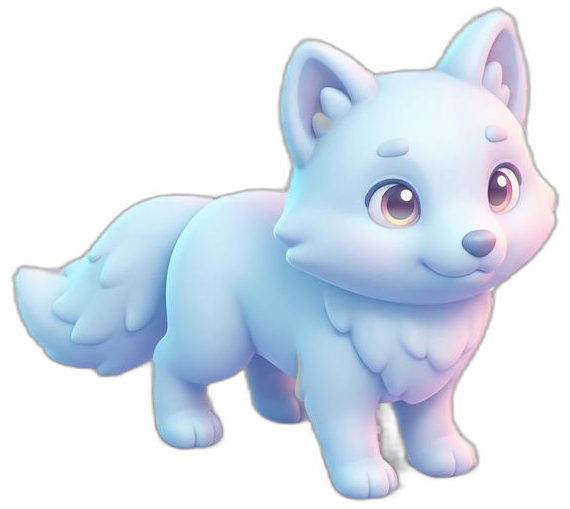
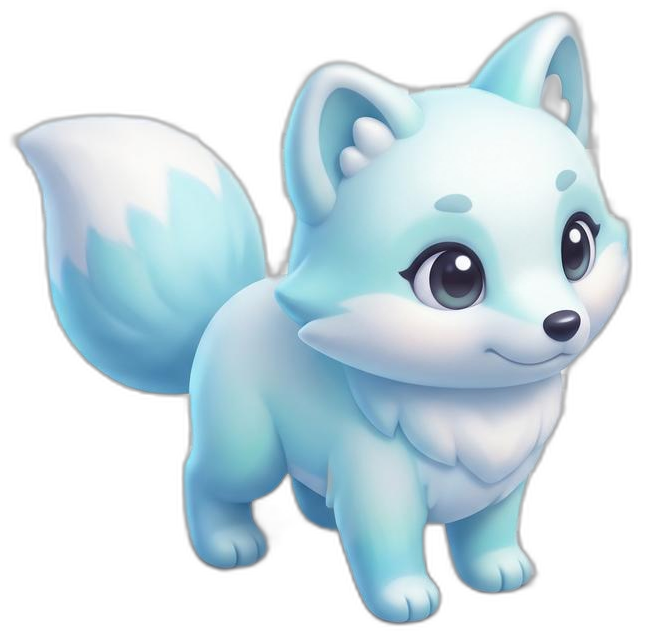
Densify Frosted Valley: 3 new animals, 6th zone, neglected landmarks
Uses every source image in Game_Assets_frozen_world_Compressed/ (58
files, 0 unused): processes 28 previously-unused decorative assets
(extra cottage/pine/crystal/flower variety, an ice gazebo, a second
bridge) and scatters them through the existing five zones so each
reads as visually rich rather than sparse.

Adds a sixth zone, Frozen Shore, for the penguin, plus deer (grove)
and polar bear (crystal area) — all three now placed, idle, and
visible. Adds procedural frost-crack lines and paw-print trails
leading to each animal (Graphics-drawn, no new art).

Wires in the first 10 of 11 "neglected landmark" pairs the user
generated and handed over: each zone's animal is tied to one damaged
object (frozen well, wilted carrots, dark lantern, blank signpost,
empty nest, dull crystal, dark ice cave, frozen fishing hole,
collapsed igloo) shown in-world now. Restored counterparts are
processed and sitting in public/assets/frosted/ (fv_item_*_restored)
ready for the reveal mechanic once the per-animal puzzle/unlock
system is built — not wired yet, since that system doesn't exist.

Reprocesses the fox from the source image that was actually kept
(dusjv8) after the original one was removed from the asset folder.

Verified with tsc/vitest(88)/vite build and a full Playwright pass
across all six zones confirming no overlap after the new shore zone
needed to move further from the now-denser village.

diff --git a/src/scenes/FrostedValleyScene.ts b/src/scenes/FrostedValleyScene.ts
@@ -21,51 +21,112 @@ import { progression } from "../game/services";
  * and everything else is sized relative to that, per the hierarchy
  * animal < decor < small tree < cottage < large tree < major feature.
  *
- * COMPOSITION: five zones spaced ~1600-2000 world-units apart along a single
- * path (see ZONES/PATH/RIVER), each with its own generous clearing — not one
- * overlapping pile. The fountain restoration is a tap-triggered stand-in for
- * the eventual puzzle hookup (see `triggerFountainRestore`).
+ * COMPOSITION: six zones spaced well apart along a path (see ZONES/PATH/
+ * RIVER), each with its own generous clearing — not one overlapping pile.
+ *
+ * NEGLECT/RESTORE: every zone's animal is tied to one "neglected" landmark —
+ * shown in its damaged state until the animal's own puzzle is solved. The
+ * fountain (grove) already has a full damaged→restored crossfade sequence
+ * (see `triggerFountainRestore`); the other landmarks currently only render
+ * their damaged sprite — restored counterparts are processed and sitting in
+ * public/assets/frosted/ (fv_item_*_restored) ready for the reveal mechanic
+ * once the per-animal puzzle/unlock system is built.
  */
 
-// native pixel dimensions of each processed asset (see public/assets/frosted/)
+// native pixel heights of every processed asset (see public/assets/frosted/)
 const NATIVE_H: Record<string, number> = {
   fv_bridge: 545,
+  fv_bridge_b: 545,
   fv_cottage_a: 719,
   fv_cottage_b: 582,
+  fv_cottage_c: 582,
   fv_pine: 927,
+  fv_pine_b: 633,
+  fv_pine_c: 866,
+  fv_pine_d: 795,
   fv_magic_treehouse: 822,
+  fv_magic_tree_restored: 810,
+  fv_blossom_tree: 556,
   fv_fence: 542,
   fv_barrel_flowers: 731,
+  fv_barrel_b: 731,
   fv_birdhouse_post: 785,
   fv_ice_block: 647,
   fv_icicles: 536,
   fv_waterfall: 569,
+  fv_waterfall_b: 569,
   fv_riverbank: 656,
   fv_crystal_a: 578,
   fv_crystal_b: 866,
+  fv_crystal_c: 578,
+  fv_crystal_d: 547,
+  fv_crystal_e: 618,
+  fv_crystal_flowers: 616,
+  fv_flower_crystal_bouquet: 503,
   fv_flower_bush: 543,
+  fv_flower_bush_b: 637,
+  fv_flower_pot: 789,
+  fv_flower_arch: 543,
+  fv_flower_cluster_a: 405,
+  fv_flower_cluster_b: 501,
+  fv_flower_cluster_c: 524,
+  fv_hedge: 590,
+  fv_signpost: 805,
+  fv_lamppost: 755,
+  fv_wheelbarrow: 569,
+  fv_bench: 576,
+  fv_ice_gazebo: 631,
+  fv_snowrock_a: 495,
+  fv_snowrock_b: 582,
+  fv_pond_frozen: 612,
+  fv_pond_restored: 513,
   fv_rabbit: 529,
-  fv_fox: 509,
+  fv_fox: 635,
   fv_squirrel: 555,
+  fv_deer: 516,
+  fv_polarbear: 620,
+  fv_penguin: 562,
   fv_berry_branch: 873,
   fv_fountain_damaged: 615,
   fv_fountain_restored: 821,
   fv_dead_tree: 652,
+  fv_item_well_damaged: 1305,
+  fv_item_well_restored: 1147,
+  fv_item_carrots_damaged: 1147,
+  fv_item_carrots_restored: 1374,
+  fv_item_signpost_damaged: 1263,
+  fv_item_signpost_restored: 849,
+  fv_item_lantern_damaged: 1464,
+  fv_item_lantern_restored: 1142,
+  fv_item_pool_damaged: 1056,
+  fv_item_pool_restored: 1344,
+  fv_item_nest_damaged: 1004,
+  fv_item_nest_restored: 1313,
+  fv_item_moonpetal_restored: 844,
+  fv_item_crystal_damaged: 1003,
+  fv_item_crystal_restored: 1056,
+  fv_item_icecave_damaged: 1468,
+  fv_item_icecave_restored: 1372,
+  fv_item_fishhole_damaged: 1051,
+  fv_item_fishhole_restored: 976,
+  fv_item_igloo_damaged: 1065,
+  fv_item_igloo_restored: 1330,
 };
 
 const FV_KEYS = [...Object.keys(NATIVE_H), "fv_sparkle_trail"];
 
 const WORLD_W = 6000;
-const WORLD_H = 4800;
+const WORLD_H = 5500;
 const HORIZON = 350;
 
-/** Five distinct clearings, spaced ~1600-2000 world-units apart — the world's real structure. */
+/** Six distinct clearings, spaced well apart — the world's real structure. */
 const ZONES = {
   village: { x: 900, y: 4300 },
   bridge: { x: 2150, y: 3500 },
   grove: { x: 2950, y: 2600 },
   waterfall: { x: 4150, y: 1500 },
   crystals: { x: 4950, y: 850 },
+  shore: { x: 2750, y: 5250 },
 };
 
 const START_FOCUS = { x: ZONES.village.x, y: ZONES.village.y - 90 };
@@ -113,12 +174,14 @@ export class FrostedValleyScene extends Phaser.Scene {
     this.buildGround();
     this.buildPath();
     this.buildRiver();
+    this.buildAtmosphere();
     this.buildForestFringe();
     this.buildVillageZone();
     this.buildBridgeZone();
     this.buildRestorationGrove();
     this.buildWaterfallZone();
     this.buildCrystalZone();
+    this.buildFrozenShore();
     this.buildAnimals();
     this.buildForeground();
     this.buildSnowfall();
@@ -298,6 +361,11 @@ export class FrostedValleyScene extends Phaser.Scene {
     path.fillStyle(0xfdfaf3, 0.92);
     const pts = this.chain([ZONES.village, ZONES.bridge, ZONES.grove, ZONES.waterfall, ZONES.crystals], 9);
     for (const p of pts) path.fillEllipse(p.x, p.y, 150, 78);
+
+    const spur = this.add.graphics().setDepth(-150);
+    spur.fillStyle(0xfdfaf3, 0.9);
+    const spurPts = this.chain([ZONES.village, ZONES.shore], 7);
+    for (const p of spurPts) spur.fillEllipse(p.x, p.y, 130, 68);
   }
 
   /** Waterfall -> pool -> bridge crossing -> continued water, offset from the grove clearing. */
@@ -308,12 +376,87 @@ export class FrostedValleyScene extends Phaser.Scene {
     const mid = { x: ZONES.grove.x + 620, y: ZONES.grove.y - 120 };
     const cross = { x: ZONES.bridge.x + 40, y: ZONES.bridge.y - 20 };
     const tail = { x: ZONES.bridge.x - 340, y: ZONES.bridge.y + 560 };
-    const pts = this.chain([src, mid, cross, tail], 7);
+    const mouth = { x: ZONES.shore.x + 260, y: ZONES.shore.y - 180 };
+    const pts = this.chain([src, mid, cross, tail, mouth], 7);
     for (const p of pts) river.fillEllipse(p.x, p.y, 230, 140);
 
     const shimmer = this.add.graphics().setDepth(-138);
     shimmer.fillStyle(0xcdeef7, 0.5);
     for (const p of pts) shimmer.fillEllipse(p.x, p.y, 80, 44);
+  }
+
+  /**
+   * Atmospheric ground detail: frost cracks radiating across the open snow,
+   * and small paw-print trails leading toward each zone's hidden animal —
+   * cheap procedural Graphics, no new art needed.
+   */
+  private buildAtmosphere(): void {
+    const cracks = this.add.graphics().setDepth(-145);
+    cracks.lineStyle(4, 0x9fc2dc, 0.55);
+    const crackOrigins = [
+      { x: 1550, y: 3950 },
+      { x: 2600, y: 3050 },
+      { x: 3600, y: 2000 },
+      { x: 4550, y: 1150 },
+      { x: 1450, y: 4650 },
+    ];
+    for (const o of crackOrigins) this.drawCrack(cracks, o.x, o.y, 5, 110);
+
+    if (!this.textures.exists("fv_pawprint")) {
+      const g = this.make.graphics({}, false);
+      g.fillStyle(0x9fc2dc, 1);
+      g.fillEllipse(6, 10, 7, 9);
+      g.fillEllipse(2, 2, 3, 4);
+      g.fillEllipse(7, 0, 3, 4);
+      g.fillEllipse(11, 2, 3, 4);
+      g.generateTexture("fv_pawprint", 16, 16);
+      g.destroy();
+    }
+    const trails: Array<{ from: { x: number; y: number }; to: { x: number; y: number } }> = [
+      { from: { x: ZONES.village.x - 260, y: ZONES.village.y - 60 }, to: { x: ZONES.village.x + 220, y: ZONES.village.y + 170 } },
+      { from: { x: ZONES.bridge.x - 420, y: ZONES.bridge.y + 60 }, to: { x: ZONES.bridge.x - 100, y: ZONES.bridge.y + 170 } },
+      { from: { x: ZONES.waterfall.x - 700, y: ZONES.waterfall.y + 120 }, to: { x: ZONES.waterfall.x - 340, y: ZONES.waterfall.y + 270 } },
+      { from: { x: ZONES.grove.x - 420, y: ZONES.grove.y + 340 }, to: { x: ZONES.grove.x - 210, y: ZONES.grove.y + 270 } },
+      { from: { x: ZONES.crystals.x - 620, y: ZONES.crystals.y + 340 }, to: { x: ZONES.crystals.x - 360, y: ZONES.crystals.y + 240 } },
+      { from: { x: ZONES.shore.x - 200, y: ZONES.shore.y + 260 }, to: { x: ZONES.shore.x, y: ZONES.shore.y + 190 } },
+    ];
+    for (const t of trails) this.drawPawTrail(t.from, t.to);
+  }
+
+  /** A jagged branching frost crack, drawn as short connected segments. */
+  private drawCrack(g: Phaser.GameObjects.Graphics, x: number, y: number, branches: number, len: number): void {
+    for (let b = 0; b < branches; b++) {
+      const angle = (Math.PI * 2 * b) / branches + Phaser.Math.FloatBetween(-0.3, 0.3);
+      let cx = x;
+      let cy = y;
+      let a = angle;
+      const segs = 3 + Math.floor(Math.random() * 3);
+      for (let s = 0; s < segs; s++) {
+        a += Phaser.Math.FloatBetween(-0.5, 0.5);
+        const nx = cx + Math.cos(a) * len;
+        const ny = cy + Math.sin(a) * len * 0.6;
+        g.lineBetween(cx, cy, nx, ny);
+        cx = nx;
+        cy = ny;
+      }
+    }
+  }
+
+  /** A short trail of alternating paw prints leading toward a hidden animal. */
+  private drawPawTrail(from: { x: number; y: number }, to: { x: number; y: number }): void {
+    const steps = 6;
+    for (let i = 0; i < steps; i++) {
+      const t = i / (steps - 1);
+      const x = Phaser.Math.Linear(from.x, to.x, t) + (i % 2 === 0 ? -14 : 14);
+      const y = Phaser.Math.Linear(from.y, to.y, t);
+      const angle = Phaser.Math.Angle.Between(from.x, from.y, to.x, to.y);
+      this.add
+        .image(x, y, "fv_pawprint")
+        .setRotation(angle + Math.PI / 2)
+        .setScale(1.4)
+        .setAlpha(0.65)
+        .setDepth(-144);
+    }
   }
 
   /** Linear-interpolated waypoint chain through a list of anchor points, `perLeg` points per leg. */
@@ -351,11 +494,12 @@ export class FrostedValleyScene extends Phaser.Scene {
     return img;
   }
 
-  /** Distant hazy treeline along the world's back edge, for depth. */
+  /** Distant hazy treeline along the world's back edge, for depth — mixed pine variants for texture. */
   private buildForestFringe(): void {
+    const variants = ["fv_pine", "fv_pine_b", "fv_pine_c", "fv_pine_d"];
     for (let i = 0; i < 22; i++) {
       const x = 80 + i * 280 + (i % 2) * 70;
-      this.propH("fv_pine", x, HORIZON + 60 + (i % 3) * 20, 340 + (i % 2) * 60, {
+      this.propH(variants[i % variants.length], x, HORIZON + 60 + (i % 3) * 20, 340 + (i % 2) * 60, {
         depth: -160,
         tint: 0xb9cfe8,
         alpha: 0.85,
@@ -370,18 +514,30 @@ export class FrostedValleyScene extends Phaser.Scene {
     const z = ZONES.village;
     // framing pines well outside the clearing radius (~900+), not crowding the cottages
     this.propH("fv_pine", z.x - 780, z.y - 420, 560);
-    this.propH("fv_pine", z.x - 950, z.y + 60, 620);
-    this.propH("fv_pine", z.x + 820, z.y - 520, 540);
+    this.propH("fv_pine_c", z.x - 950, z.y + 60, 620);
+    this.propH("fv_pine_b", z.x + 820, z.y - 520, 540);
+    this.propH("fv_pine_d", z.x - 1050, z.y - 580, 480);
     this.propH("fv_magic_treehouse", z.x - 560, z.y - 40, 780, { tint: 0xe8e2f5 });
 
     // cottages get real breathing room between them (~800 apart, each ~500-650 wide)
     this.propH("fv_cottage_a", z.x - 120, z.y - 40, 600);
     this.propH("fv_cottage_b", z.x + 680, z.y + 20, 520);
+    this.propH("fv_cottage_c", z.x + 1320, z.y + 140, 470);
     this.propH("fv_fence", z.x - 420, z.y + 90, 240);
     this.propH("fv_fence", z.x + 140, z.y + 110, 240, { flip: true });
     this.propH("fv_birdhouse_post", z.x + 980, z.y - 10, 300);
     this.propH("fv_flower_bush", z.x + 300, z.y + 130, 210);
     this.propH("fv_barrel_flowers", z.x - 620, z.y + 150, 230);
+    this.propH("fv_barrel_b", z.x - 980, z.y + 280, 220);
+    this.propH("fv_bench", z.x + 60, z.y + 230, 190);
+    this.propH("fv_lamppost", z.x - 260, z.y + 220, 260);
+    this.propH("fv_flower_arch", z.x - 1400, z.y + 120, 320);
+    this.propH("fv_hedge", z.x + 1000, z.y + 320, 200);
+    this.propH("fv_snowrock_a", z.x + 1500, z.y - 100, 220);
+
+    // the neglected village landmark — a frozen carrot patch, restored once the rabbit's puzzle is solved
+    this.propH("fv_item_well_damaged", z.x - 780, z.y - 100, 400);
+    this.propH("fv_item_carrots_damaged", z.x + 560, z.y + 300, 260);
   }
 
   /* ================= ZONE B: Bridge / River crossing ================= */
@@ -392,7 +548,14 @@ export class FrostedValleyScene extends Phaser.Scene {
     this.propH("fv_icicles", z.x - 460, z.y + 60, 240);
     this.propH("fv_flower_bush", z.x + 420, z.y + 90, 200);
     this.propH("fv_pine", z.x + 600, z.y - 340, 520);
-    this.propH("fv_pine", z.x - 640, z.y - 260, 500);
+    this.propH("fv_pine_c", z.x - 640, z.y - 260, 560);
+    this.propH("fv_wheelbarrow", z.x - 780, z.y + 180, 210);
+    this.propH("fv_flower_cluster_a", z.x - 260, z.y + 280, 170);
+    this.propH("fv_snowrock_b", z.x + 300, z.y + 340, 210);
+
+    // the neglected bridge landmarks — a broken lantern and blank signpost
+    this.propH("fv_item_lantern_damaged", z.x + 140, z.y - 120, 260);
+    this.propH("fv_item_signpost_damaged", z.x + 700, z.y + 180, 300);
   }
 
   /* ================= ZONE C: Restoration Grove ================= */
@@ -410,7 +573,14 @@ export class FrostedValleyScene extends Phaser.Scene {
     // sparse accents only — this zone stays deliberately open until restored
     this.propH("fv_crystal_b", z.x + 560, z.y + 40, 260, { flip: true });
     this.propH("fv_pine", z.x - 760, z.y - 380, 540);
-    this.propH("fv_pine", z.x + 780, z.y - 440, 520);
+    this.propH("fv_pine_b", z.x + 780, z.y - 440, 520);
+    this.propH("fv_blossom_tree", z.x + 1180, z.y - 140, 460);
+    this.propH("fv_flower_pot", z.x - 280, z.y + 300, 230);
+    this.propH("fv_crystal_flowers", z.x + 300, z.y + 320, 260);
+    this.propH("fv_hedge", z.x - 1000, z.y + 220, 200);
+
+    // the deer's neglected landmark — a wilted moonpetal patch
+    this.propH("fv_item_moonpetal_restored", z.x + 900, z.y + 280, 200, { tint: 0x8a90a0 });
   }
 
   /* ================= ZONE D: Frozen Waterfall ================= */
@@ -418,11 +588,17 @@ export class FrostedValleyScene extends Phaser.Scene {
   private buildWaterfallZone(): void {
     const z = ZONES.waterfall;
     this.propH("fv_waterfall", z.x, z.y, 740);
+    this.propH("fv_waterfall_b", z.x + 680, z.y + 260, 360);
     this.propH("fv_ice_block", z.x - 480, z.y + 120, 260);
     this.propH("fv_riverbank", z.x - 120, z.y + 220, 380);
     this.propH("fv_pine", z.x + 540, z.y - 200, 520);
-    this.propH("fv_pine", z.x - 620, z.y - 100, 500);
+    this.propH("fv_pine_d", z.x - 620, z.y - 100, 560);
     this.propH("fv_flower_bush", z.x + 400, z.y + 90, 190);
+    this.propH("fv_snowrock_a", z.x + 1000, z.y + 80, 230);
+
+    // the squirrel's neglected landmarks — an empty nest and a frozen rock pool
+    this.propH("fv_item_nest_damaged", z.x - 960, z.y + 340, 420);
+    this.propH("fv_pond_frozen", z.x - 780, z.y + 560, 220);
   }
 
   /* ================= ZONE E: Crystal Area ================= */
@@ -431,8 +607,33 @@ export class FrostedValleyScene extends Phaser.Scene {
     const z = ZONES.crystals;
     this.propH("fv_crystal_a", z.x, z.y, 380);
     this.propH("fv_crystal_b", z.x + 320, z.y + 60, 240);
+    this.propH("fv_crystal_c", z.x - 380, z.y + 180, 230);
+    this.propH("fv_crystal_d", z.x + 620, z.y + 240, 210);
+    this.propH("fv_crystal_e", z.x - 620, z.y - 60, 220);
     this.propH("fv_icicles", z.x - 280, z.y + 40, 220);
     this.propH("fv_pine", z.x - 460, z.y - 240, 460, { tint: 0xd7e6f2 });
+    this.propH("fv_ice_gazebo", z.x + 880, z.y - 60, 480);
+    this.propH("fv_snowrock_b", z.x + 180, z.y + 380, 220);
+
+    // the polar bear's neglected landmarks — a dull crystal and a dark cave mouth
+    this.propH("fv_item_crystal_damaged", z.x - 900, z.y + 320, 350);
+    this.propH("fv_item_icecave_damaged", z.x + 400, z.y + 460, 500);
+    this.propH("fv_item_fishhole_damaged", z.x - 200, z.y + 420, 200);
+  }
+
+  /* ================= ZONE F: Frozen Shore ================= */
+
+  private buildFrozenShore(): void {
+    const z = ZONES.shore;
+    this.propH("fv_pine_b", z.x - 620, z.y - 180, 500);
+    this.propH("fv_pine_c", z.x + 640, z.y - 220, 540);
+    this.propH("fv_bridge_b", z.x + 120, z.y - 80, 300);
+    this.propH("fv_flower_crystal_bouquet", z.x - 280, z.y + 220, 220);
+    this.propH("fv_snowrock_a", z.x + 380, z.y + 260, 220);
+    this.propH("fv_snowrock_b", z.x - 460, z.y + 300, 210);
+
+    // the penguin's neglected landmark — a collapsed igloo
+    this.propH("fv_item_igloo_damaged", z.x + 560, z.y + 60, 420);
   }
 
   /* ================= animals — open, readable ground ================= */
@@ -441,7 +642,10 @@ export class FrostedValleyScene extends Phaser.Scene {
     const rabbit = this.propH("fv_rabbit", ZONES.village.x + 260, ZONES.village.y + 190, 220);
     const fox = this.propH("fv_fox", ZONES.bridge.x - 80, ZONES.bridge.y + 180, 210);
     const squirrel = this.propH("fv_squirrel", ZONES.waterfall.x - 320, ZONES.waterfall.y + 280, 190, { flip: true });
-    this.idleTargets.push(rabbit, fox, squirrel);
+    const deer = this.propH("fv_deer", ZONES.grove.x - 200, ZONES.grove.y + 280, 230);
+    const polarbear = this.propH("fv_polarbear", ZONES.crystals.x - 350, ZONES.crystals.y + 230, 210, { flip: true });
+    const penguin = this.propH("fv_penguin", ZONES.shore.x, ZONES.shore.y + 180, 210);
+    this.idleTargets.push(rabbit, fox, squirrel, deer, polarbear, penguin);
   }
 
   private buildForeground(): void {
@@ -465,9 +669,9 @@ export class FrostedValleyScene extends Phaser.Scene {
       lifespan: { min: 6000, max: 11000 },
       speedY: { min: 20, max: 46 },
       speedX: { min: -8, max: 8 },
-      scale: { min: 0.4, max: 1.1 },
+      scale: { min: 0.4, max: 1.2 },
       alpha: { start: 0.85, end: 0.15 },
-      frequency: 160,
+      frequency: 130,
     });
     emitter.setScrollFactor(0).setDepth(8000);
   }
